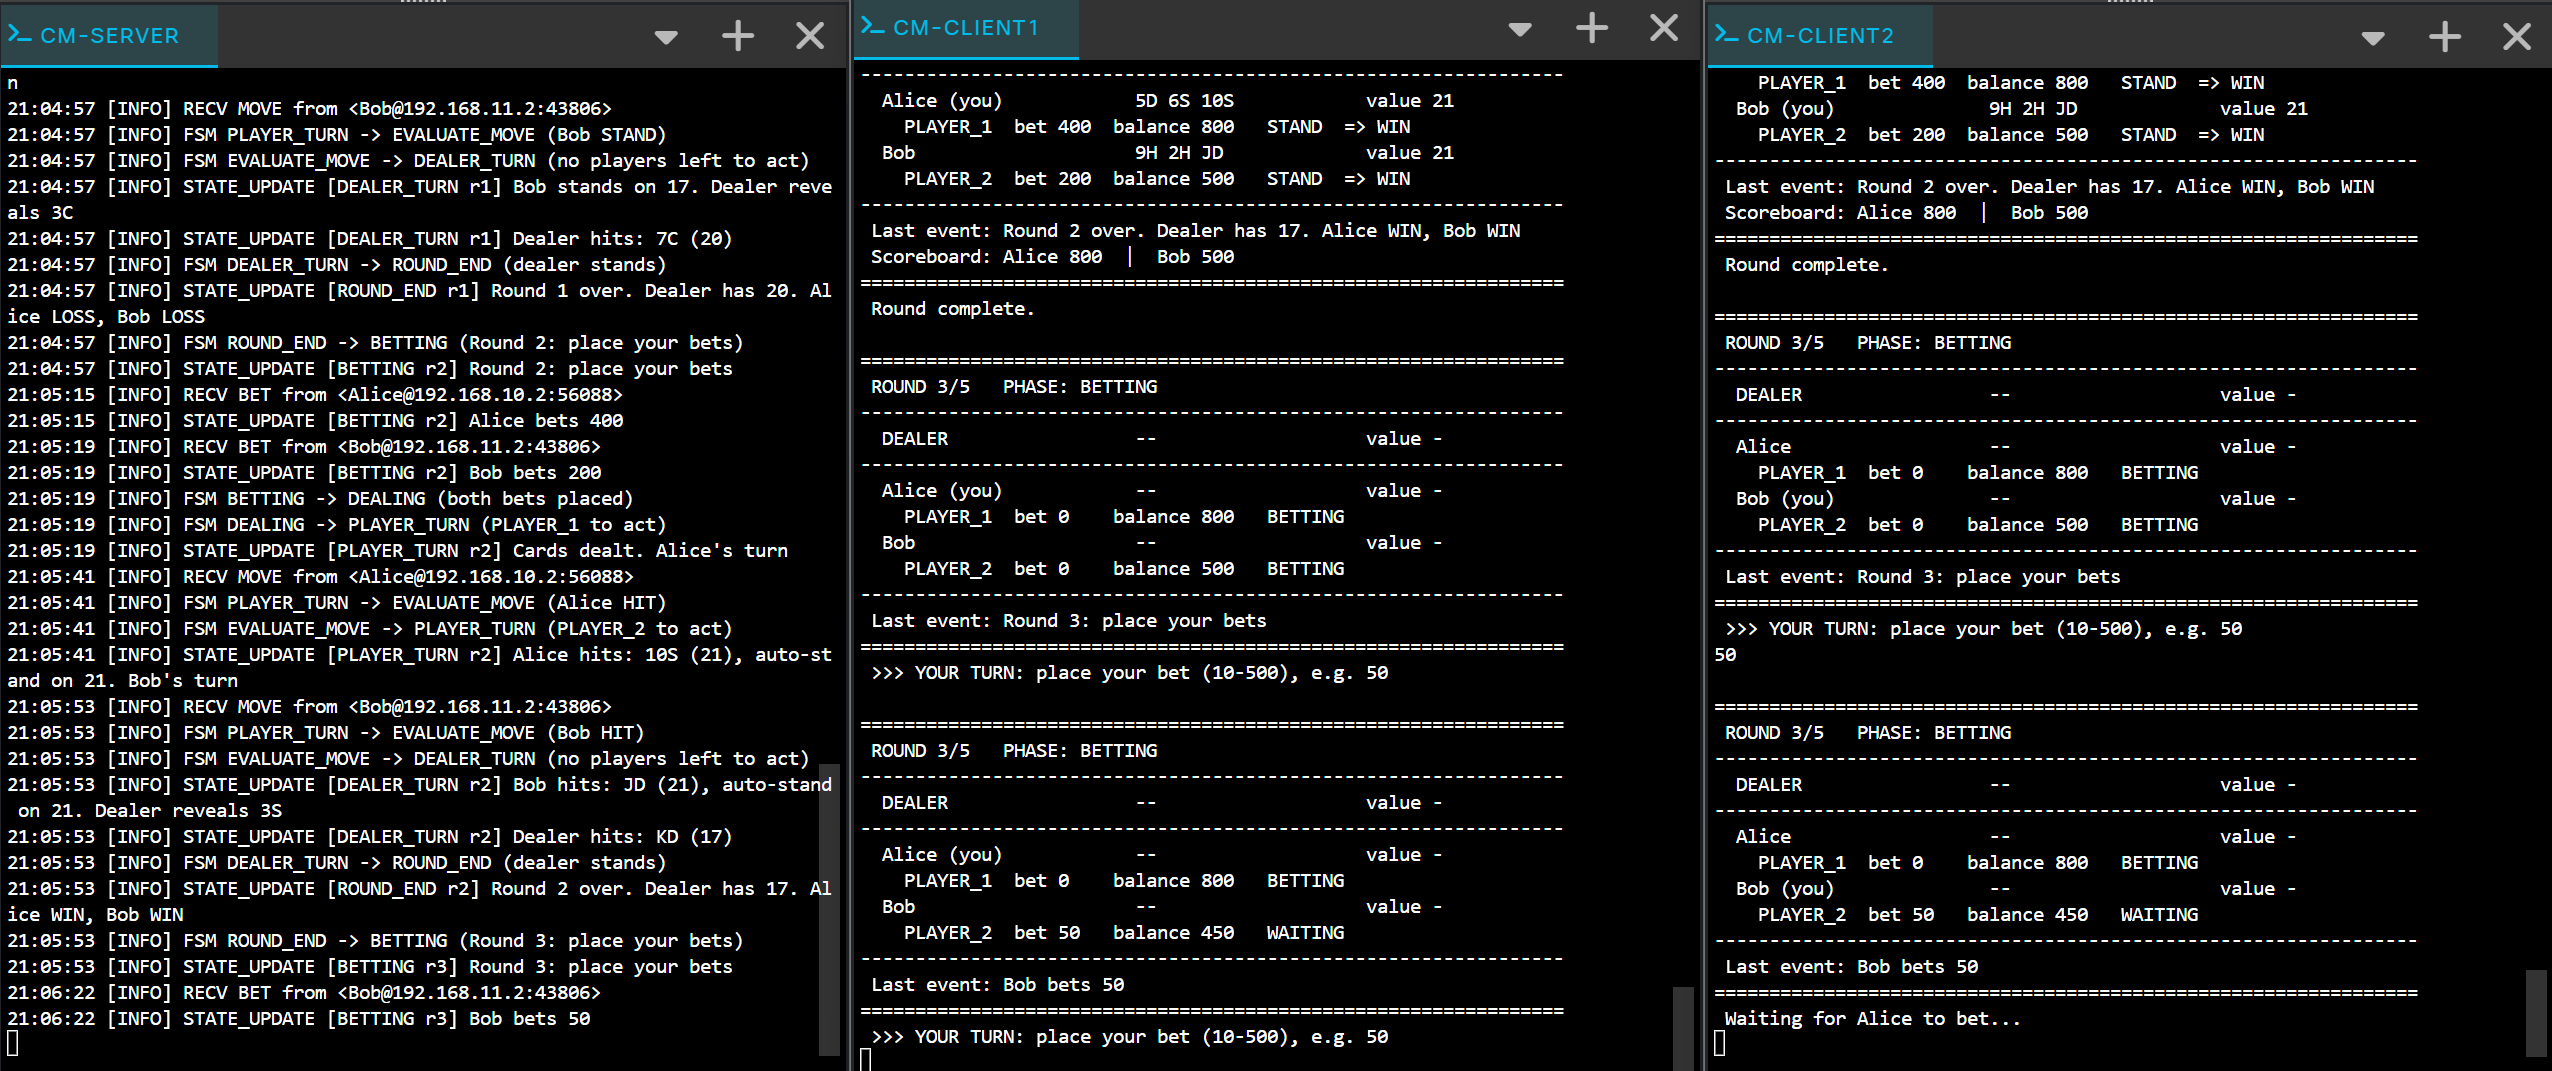
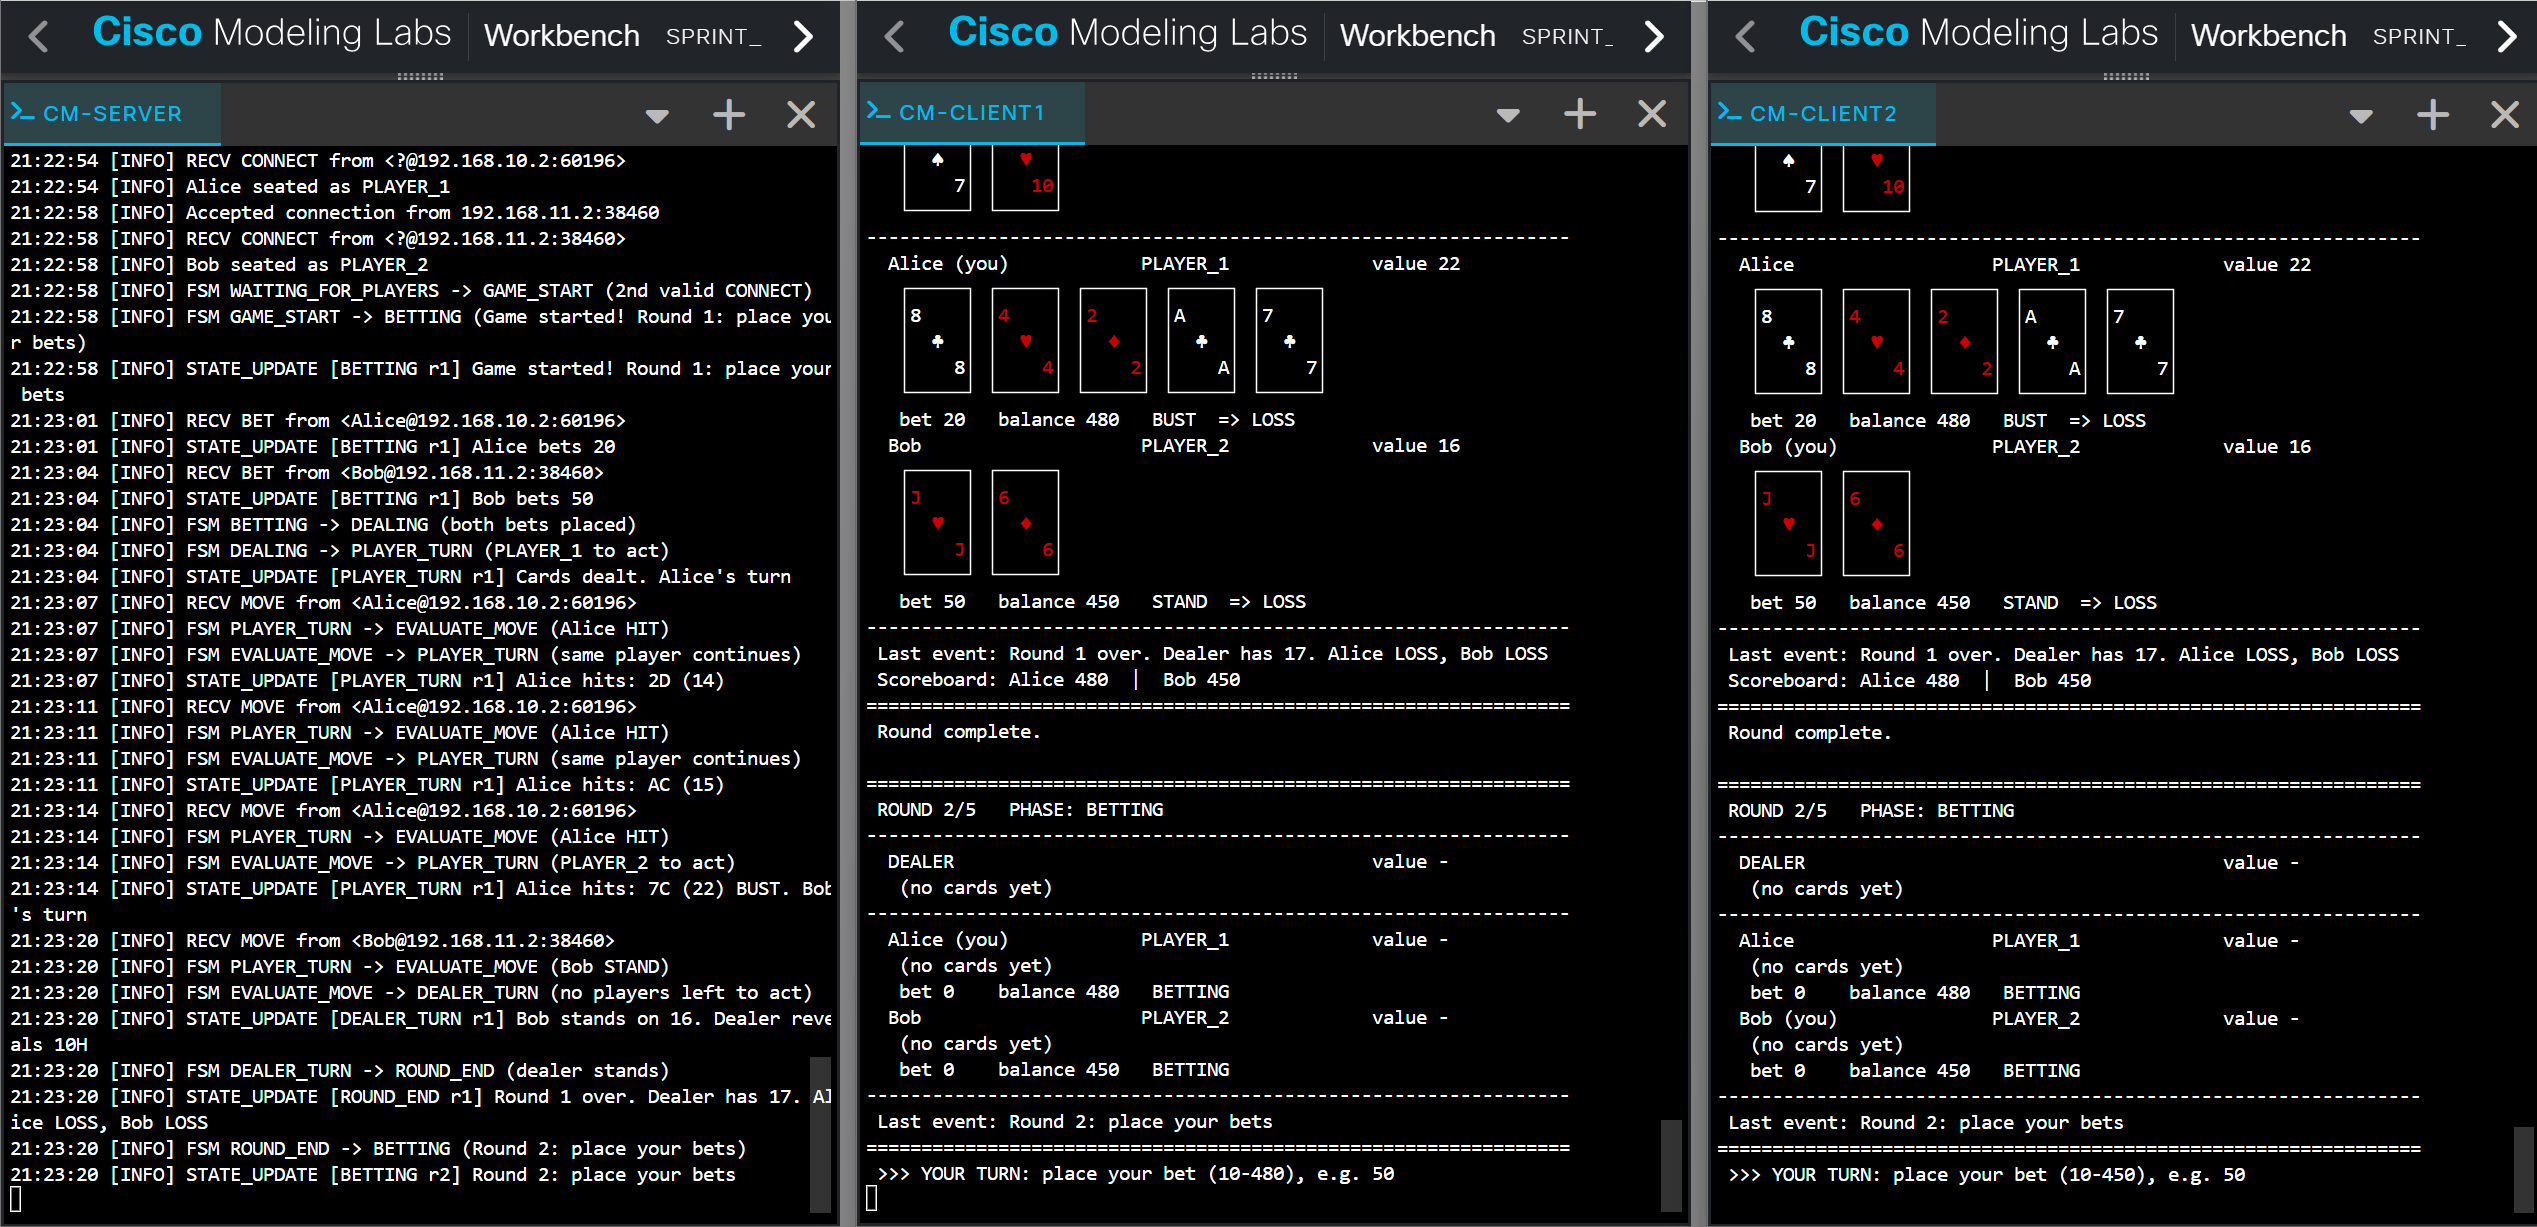
updated report

diff --git a/sprint_4_network_report.md b/sprint_4_network_report.md
@@ -187,6 +187,10 @@ IP address          Client-ID/              Lease expiration        Type
 192.168.11.2        0152.5400.dcfe.95       Nov 21 2026 07:50 PM    Automatic
 ```
 
+![show ip dhcp binding on cm-R1](screenshots/r1_show_ip_dhcp_binding.png)
+
+---
+
 ## 4. Endpoint verification
 
 ### 4.1 Game server: `ip addr show eth0` and `ip route`
@@ -353,25 +357,27 @@ python3 client.py -i server.mills.edu -p 5457 -n Alice    # Bob on Client 2
 ![Blackjack game running in CML: cm-Server log, cm-Client1 (Alice) and cm-Client2 (Bob)](screenshots/cml_blackjack_gameplay.png)
 
 *Left: `cm-Server` (192.168.20.100). Middle: `cm-Client1` (Alice). Right:
-`cm-Client2` (Bob). The game is at the start of round 3 of 5.*
+`cm-Client2` (Bob). Round 1 has just ended, and round 2 of 5 is in betting.
+The clients draw each hand as ASCII-art cards, with hearts and diamonds in
+red.*
 
 What the screenshot shows:
 
-- **Both clients reach the server across subnets.** The server log receives
-  messages from `Alice@192.168.10.2` (Subnet A) and `Bob@192.168.11.2`
-  (Subnet B). Each client used DNS to resolve `server.mills.edu` to
-  192.168.20.100, and R1 routed the TCP connection from the client's subnet
-  to Subnet C.
-- **The Sprint 1 FSM runs over the network.** The log shows the full cycle
-  for round 2:
-  `BETTING -> DEALING -> PLAYER_TURN -> EVALUATE_MOVE -> DEALER_TURN -> ROUND_END -> BETTING`.
-  Both players hit to exactly 21 and auto-stood, which follows the FSM
-  spec's turn rule.
+- **Both clients reach the server across subnets.** The server log accepts
+  `CONNECT` from `192.168.10.2` (Subnet A), seats Alice as `PLAYER_1`, then
+  accepts `192.168.11.2` (Subnet B) and seats Bob as `PLAYER_2`. Each client
+  used DNS to resolve `server.mills.edu` to 192.168.20.100, and R1 routed the
+  TCP connection from the client's subnet to Subnet C.
+- **The Sprint 1 FSM runs over the network.** In one game the log shows
+  `WAITING_FOR_PLAYERS -> GAME_START -> BETTING -> DEALING -> PLAYER_TURN`,
+  then `PLAYER_TURN -> EVALUATE_MOVE -> PLAYER_TURN` for each hit, then
+  `DEALER_TURN -> ROUND_END -> BETTING` for round 2. Alice hits three times
+  and busts at 22 (8, 4, 2, A, 7). The turn passes to Bob, who stands
+  on 16. The dealer draws to 17, and both players lose round 1.
 - **Both players see the same state.** Each client draws the same table from
-  the same `STATE_UPDATE`. After round 2, both show "Alice WIN, Bob WIN" and
-  the scoreboard Alice 800 | Bob 500. In round 3, Bob's bet of 50 appears on
-  both screens, and each client prompts the right player ("YOUR TURN" for
-  Alice, "Waiting for Alice to bet..." for Bob).
+  the same `STATE_UPDATE`: identical hands, `BUST => LOSS` / `STAND => LOSS`
+  results, and the scoreboard Alice 480 | Bob 450. Each client's bet prompt
+  is capped at its own balance: 10–480 for Alice, 10–450 for Bob.
 
 ---
 
